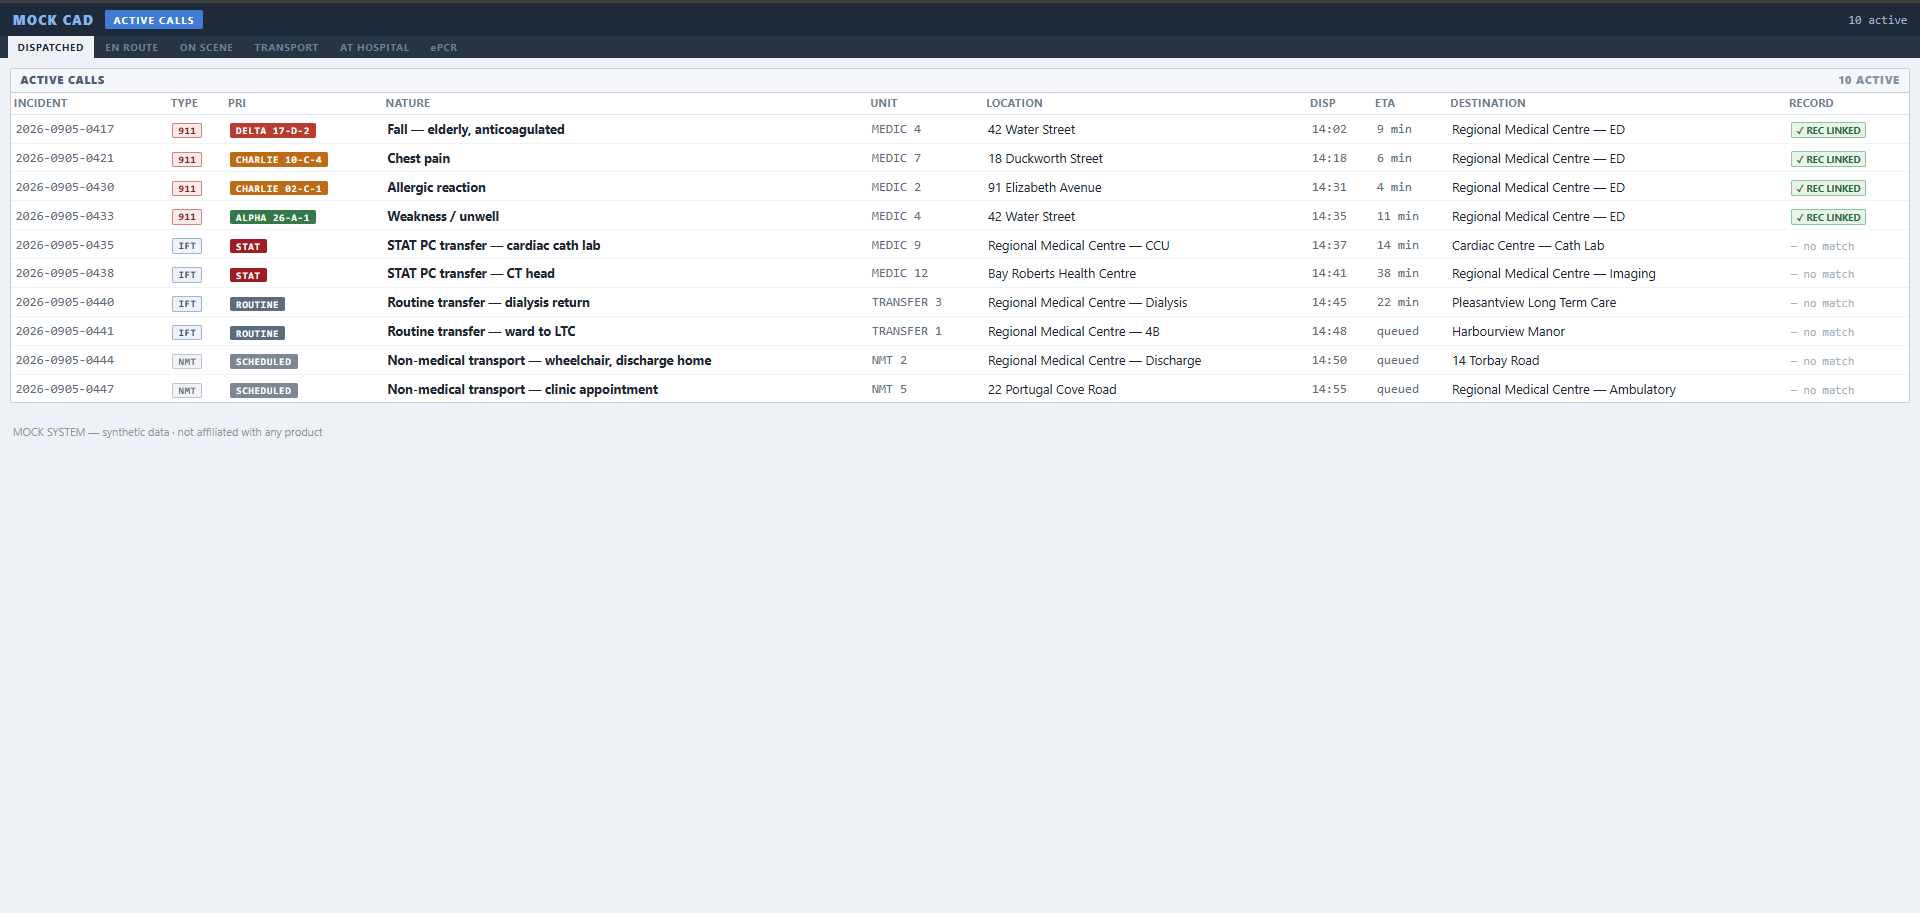
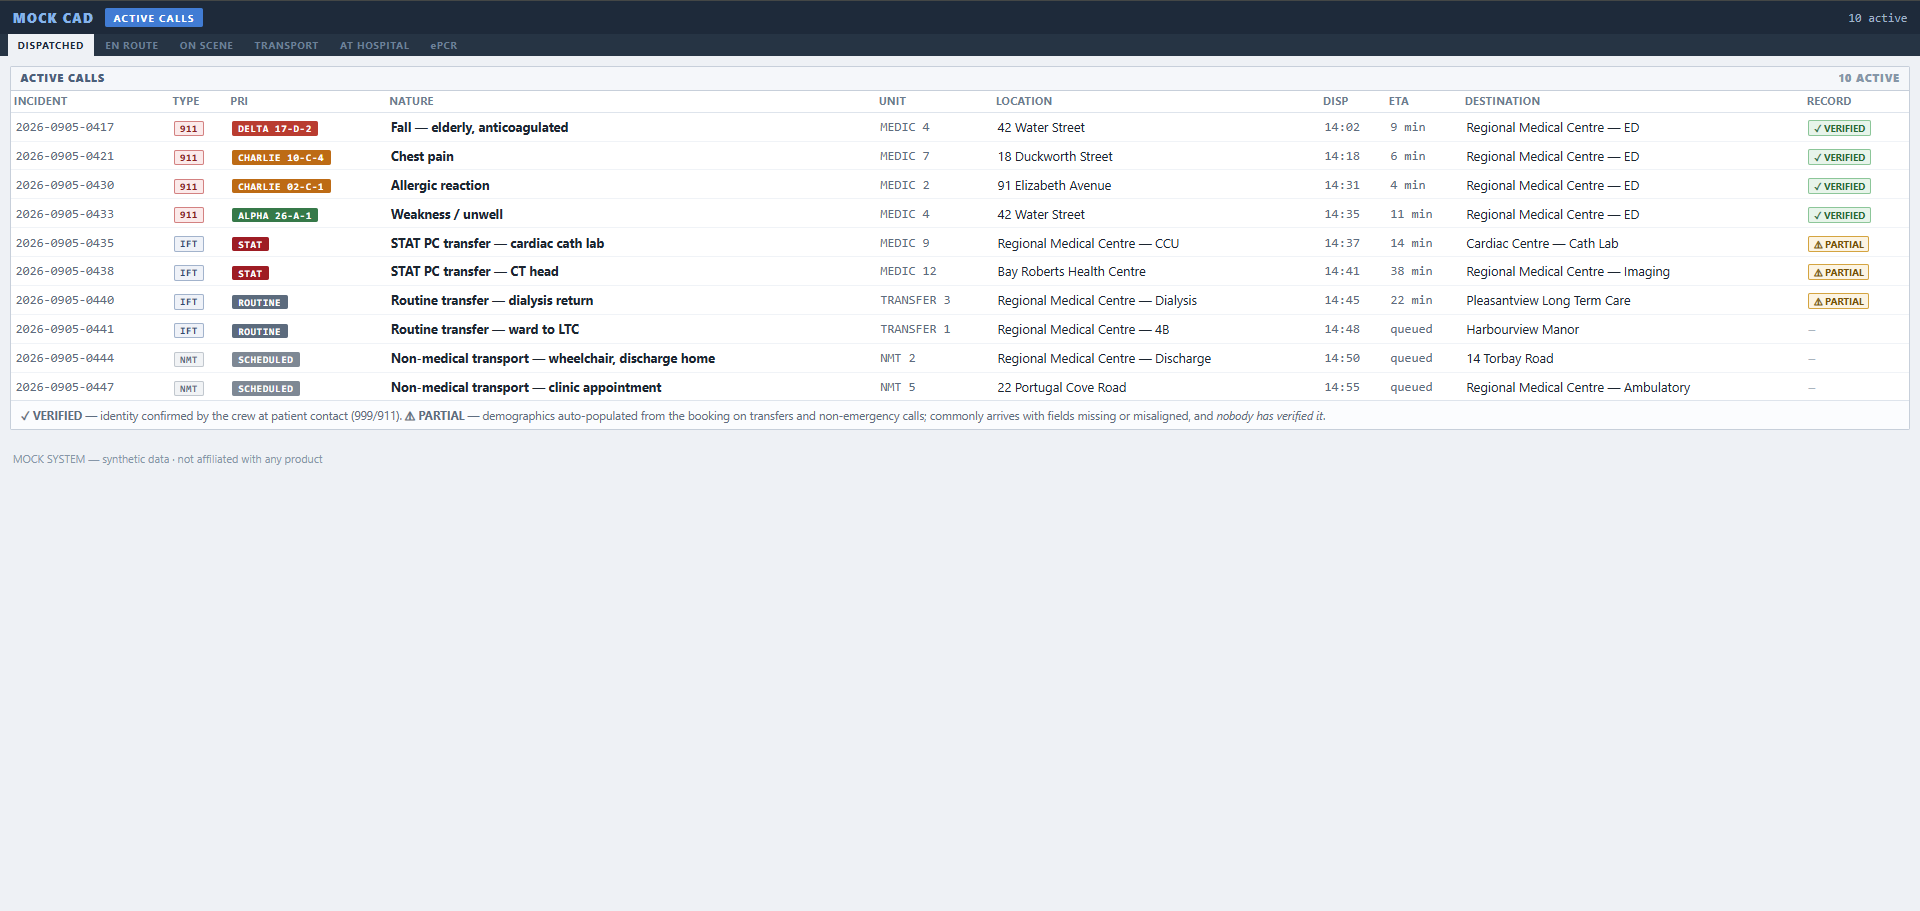
Screens: verified/partial call board + the bridge declining to guess
- 01 replaced with the VERIFIED/PARTIAL board and its legend
- 06 added: a STAT transfer whose auto-populated record has no DOB or MRN, where
  the card names the gaps and skips the duplicate check entirely
- fix: absent DOB/MRN now render as an explicit dash rather than trailing blanks,
  which read as a truncation fault

Changed region(s): [[0.0, 0.0, 1.0, 0.5225], [0.9375, 0.0, 1.0, 0.0307]]

diff --git a/epcr/app.py b/epcr/app.py
@@ -279,7 +279,7 @@ PAGE = SHELL + """
 
   <div class="idstrip">
     <span class="nm">{{c.name}}</span>
-    <span class="dm">{{c.gender|upper}} · DOB {{c.dob}} · {{c.mrn}}</span>
+    <span class="dm">{{c.gender|upper}} · DOB {{c.dob or "—"}} · {{c.mrn or "MRN —"}}</span>
     {% if call %}<span class="inc">INC {{call.incident}} · {{call.nature}} · {{call.address}}
       · enr {{call.enroute}} → {{call.destination}}</span>{% endif %}
   </div>

diff --git a/README.md b/README.md
@@ -66,10 +66,18 @@ record at all:
 
 ### The call, screen by screen
 
-**Dispatched — active calls.** 911 calls carry a linked hospital record; inter-facility
-transfers and non-medical transports don't, which is exactly where patient matching gets hard:
+**Dispatched — active calls.** 911 rows are **✓ VERIFIED** (identity confirmed by the crew at
+patient contact); transfer rows are **⚠ PARTIAL** — demographics auto-populated from the booking,
+routinely arriving with fields missing or misaligned, verified by nobody:
 
 ![CAD active call board](docs/screenshots/01-cad-active-calls.png)
+
+**The bridge declining to guess.** A STAT transfer whose auto-populated record arrived without a
+date of birth or MRN. Rather than render a confident-looking blank, the card names what is
+missing — and because identity can't be established, **the duplicate check is not attempted at
+all**. There is a test asserting exactly this silence:
+
+![Partial record — identity cannot be verified](docs/screenshots/06-partial-record.png)
 
 **ePCR — record completion, filed after the call is cleared:**
 
